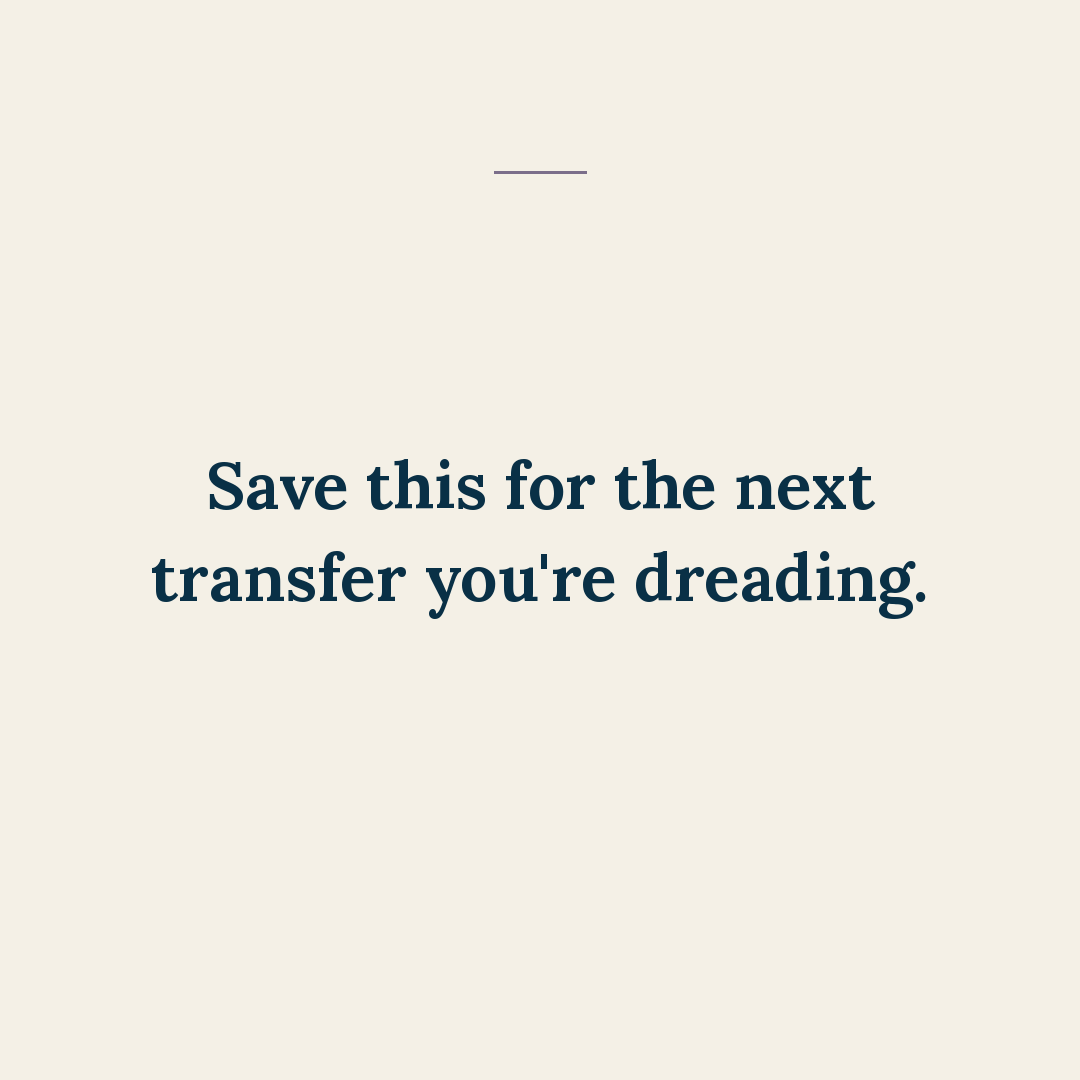
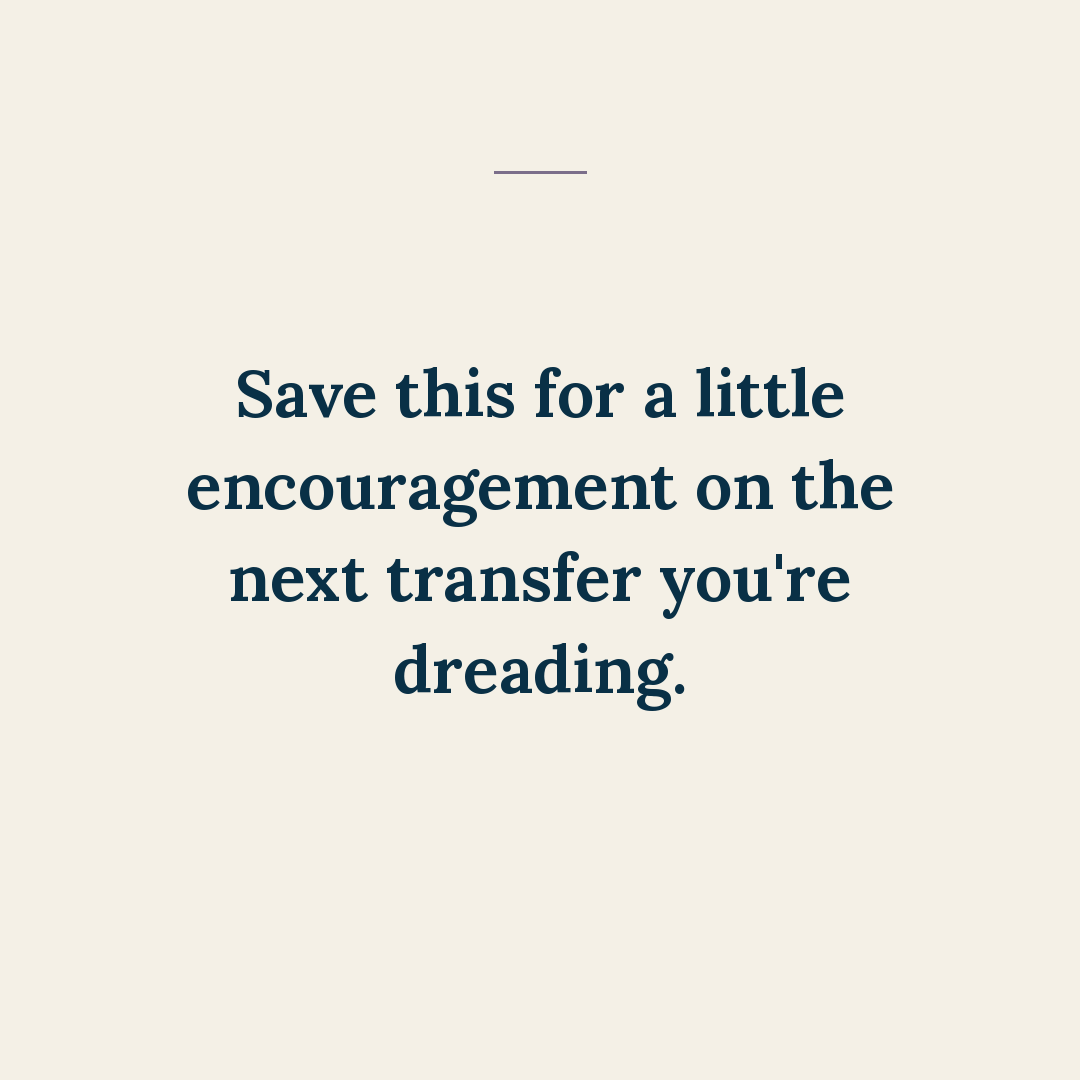
Add 58-scared-to-transfer (58 - Scared To Transfer)

Changed region(s): [[0.1222, 0.4278, 0.8556, 0.6722], [0.2139, 0.3361, 0.7944, 0.3972]]

diff --git a/posts/58-scared-to-transfer/slides.md b/posts/58-scared-to-transfer/slides.md
@@ -13,6 +13,8 @@ If you're scared to transfer your sleeping baby…
 05  Some nights it just won't work, and that's not a setback
 
 ## Closer (save)
-Save this for the next transfer you're dreading.
+Save this for a little encouragement on the next transfer you're dreading.
+
+REVISED 2026-08-16 per Ben's review (closer wording only).
 
 Render with render_cover / render_items_for_post / render_follow (render_save alias), weight 650, bg BG_CREAM.
